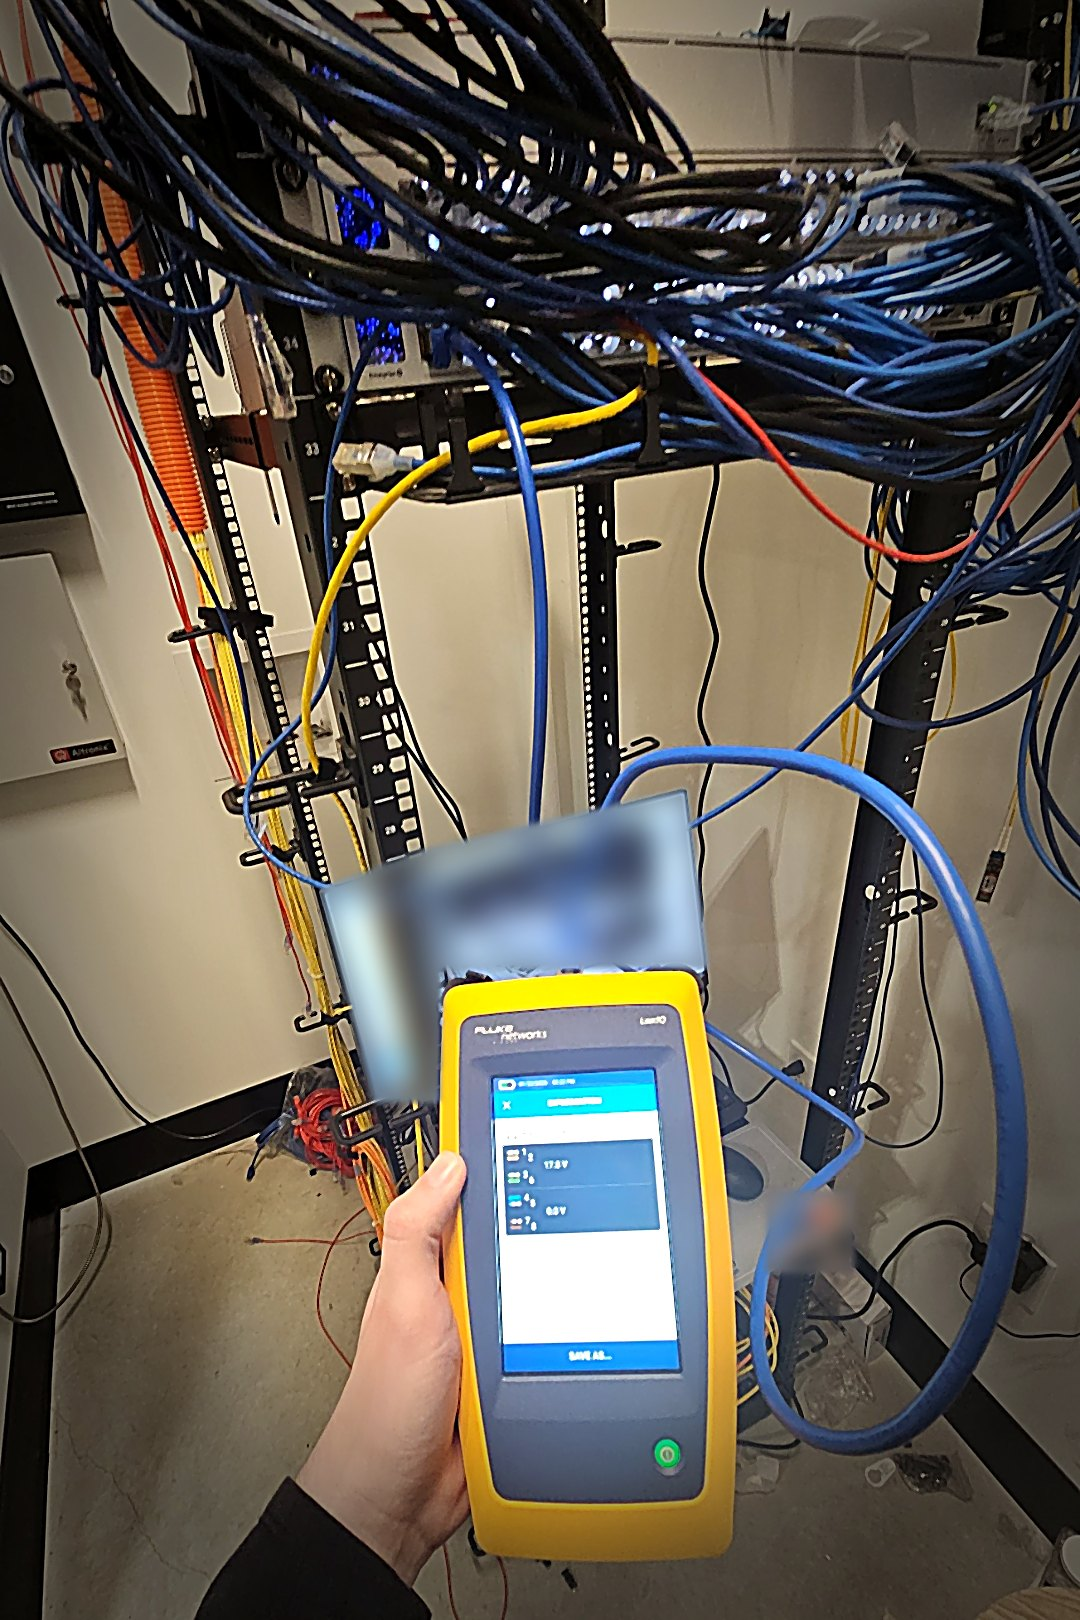
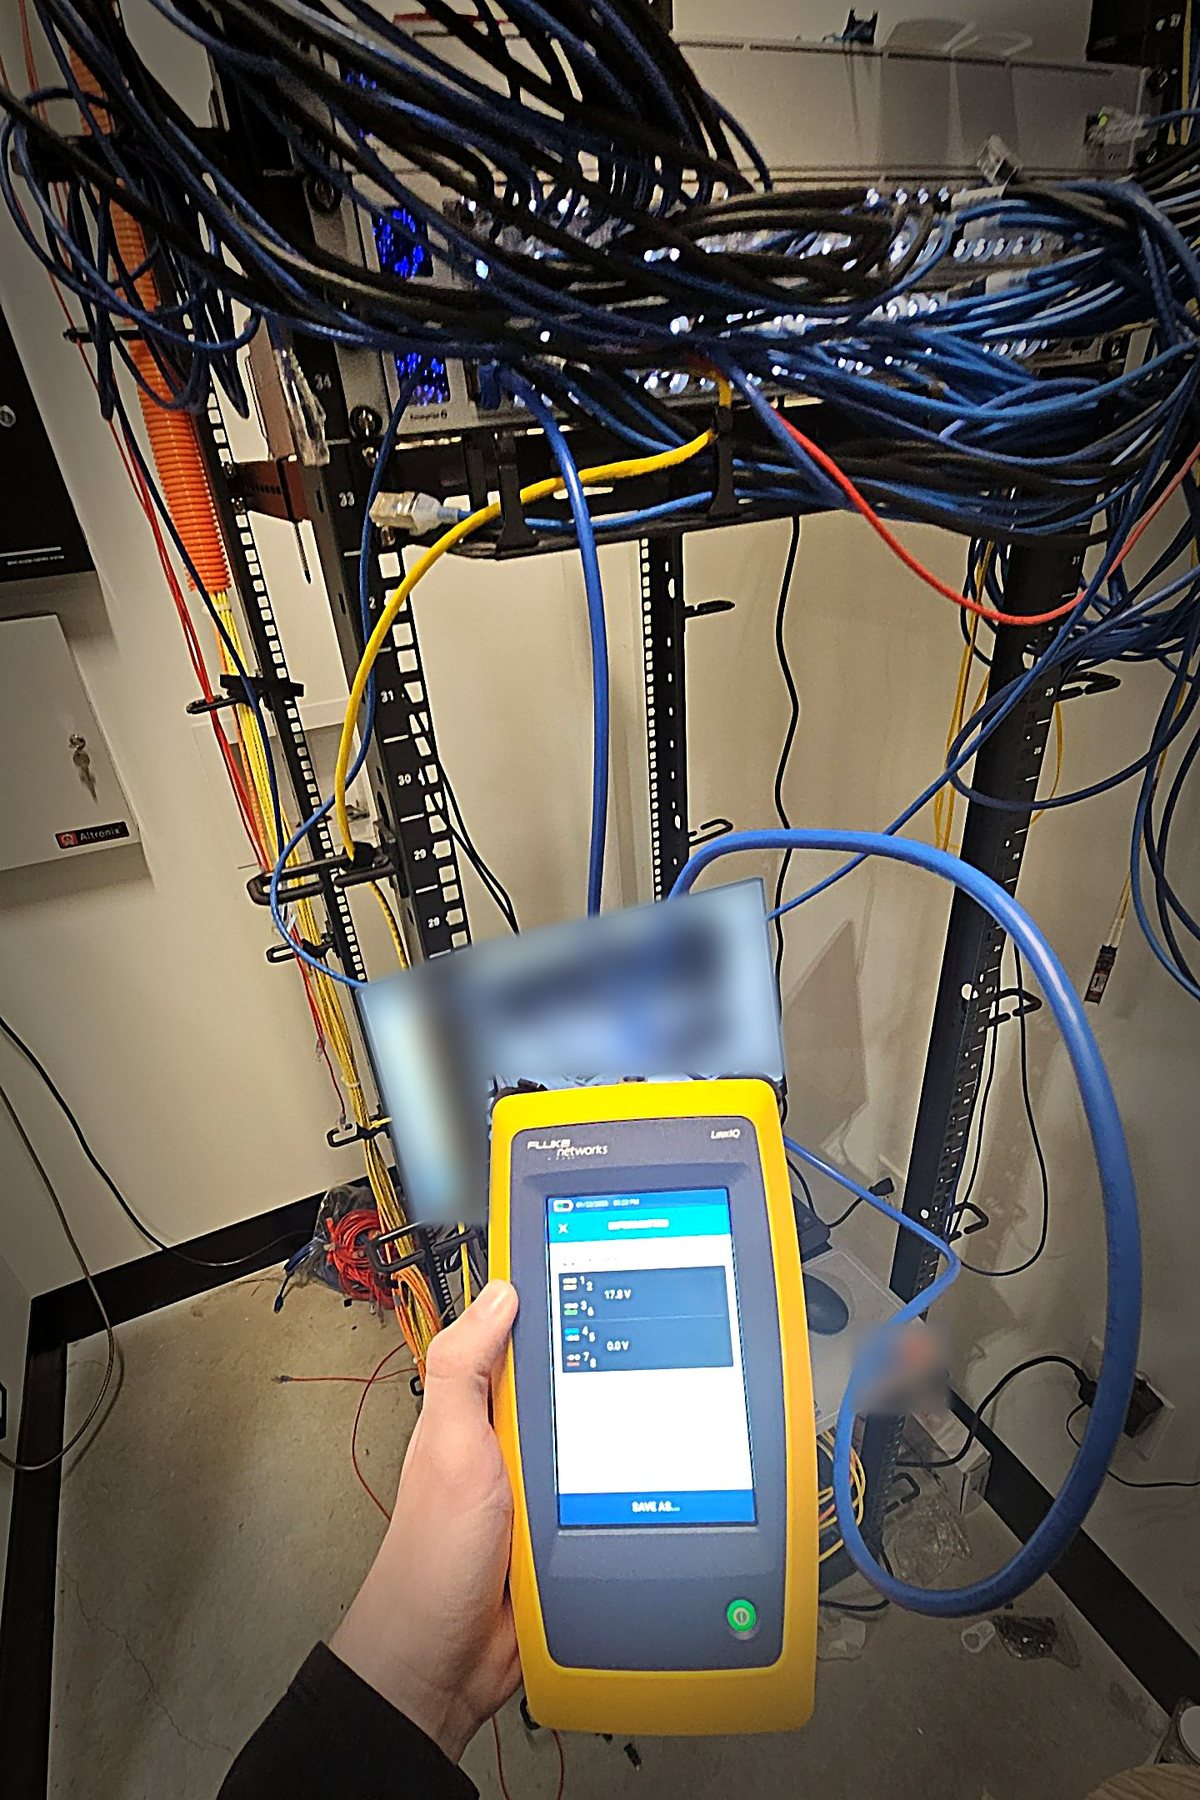
Rebuild hero photo from the higher-resolution Fluke photo
Same crop, blur, and toning as before, made from the 1440px original
instead of a screenshot. Saved at 1200px wide.

Claude-Session: https://claude.ai/code/session_014iLxbuJVAFom3juek7y5Hr

diff --git a/index.html b/index.html
@@ -43,7 +43,7 @@
         <p class="call" style="margin-top:1.1rem">Rather talk now? Call <a href="tel:+13303475329">(330) 347-5329</a></p>
       </div>
       <figure class="hero-photo">
-        <img src="images/fluke-test.jpg" alt="Testing a network drop with a Fluke LinkIQ cable tester below a rack-mounted switch" width="1080" height="1620">
+        <img src="images/fluke-test.jpg" alt="Testing a network drop with a Fluke LinkIQ cable tester below a rack-mounted switch" width="1200" height="1800">
       </figure>
     </div>
     <ul class="proof">
